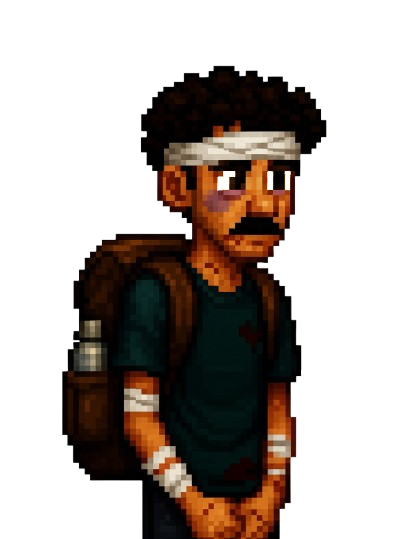
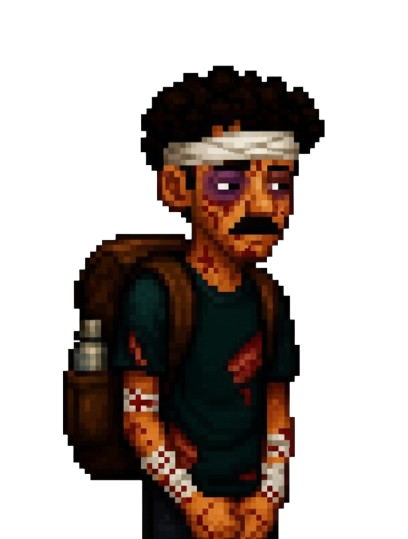
Méchanisme image terminé
Amélioration technique de la méthode pour mettre à jour les images des personnages selon leur nombre de dégâts subits. (N'est fait que sur Ahmed pour le moment).

Méthode pour mettre à jour les images terminée.

diff --git a/webapp_heros/src/stores/playerStore.js b/webapp_heros/src/stores/playerStore.js
@@ -45,7 +45,20 @@ export const usePlayerStore = defineStore('player', {
       HommeUltra: null,
       HommeEclipse: null,
       Haxan: null
-    }
+    },
+
+    images: [
+      { id: 1, name: "Homme", img: "/Images/Ahmed/PixelAhmed.png", lightWound: "/Images/Ahmed/PixelAhmedLightWound.png", Wounded: "/Images/Ahmed/PixelAhmedWounded.png", HeavyWound: "/Images/Ahmed/PixelAhmedHeavyWound.png" },
+      { id: 2, name: "Tacticien", img: "/Images/Mike/PixelMike.png", lightWound: "/Images/Mike/PixelMike.png" },
+      { id: 3, name: "CapQC", img: "/Images/CapitaineQuebec/PixelCap.png", lightWound: "/Images/CapitaineQuebec/PixelCap.png" },
+      { id: 4, name: "Magicien", img: "/Images/Alex/PixelAlex.png", lightWound: "/Images/Alex/PixelAlex.png" },
+      { id: 5, name: "Barbare", img: "/Images/Mathieu/PixelMathieu.png", lightWound: "/Images/Mathieu/PixelMathieu.png" },
+      { id: 6, name: "Cyborg", img: "/Images/Raf/PixelRaf.png", lightWound: "/Images/Raf/PixelRaf.png" },
+      { id: 7, name: "Loup", img: "/Images/Emeryk/PixelEmeryk.png", lightWound: "/Images/Emeryk/PixelEmeryk.png" },
+      { id: 8, name: "Modelisateur", img: "/Images/Elie/PixelElie.png", lightWound: "/Images/Elie/PixelElie.png" },
+      { id: 13, name: "Haxan", img: "/Images/Haxan/PixelHaxan.png", lightWound: "/Images/Haxan/PixelHaxan.png" },
+      // …
+    ]
   }),
 
   //getters c'est comme computed dans une app vue
@@ -85,6 +98,32 @@ export const usePlayerStore = defineStore('player', {
       this.damage.HommeUltra = 0
       this.damage.HommeEclipse = 0
       this.damage.Haxan = 0
+
+      // Logique pour updater les images affichées pour correspondre aux dégâts subits
+      for (const character of Object.keys(this.hp)) {
+        const hp = this.hp[character];
+        const imagePersonnage = this.images.find(c => c.name === character);
+
+        if (!imagePersonnage) continue;
+
+        if (hp > 50 && hp <= 70) {
+            // Change l'image actuelle du personnage pour sa version lightWound
+            imagePersonnage.img = imagePersonnage.lightWound;
+          
+        } else if (hp > 20 && hp <= 50) {
+
+            // Change l'image actuelle du personnage pour sa version Wounded
+            imagePersonnage.img = imagePersonnage.Wounded;
+          
+
+        } else if (hp <= 20) {
+
+            // Change l'image actuelle du personnage pour sa version Heavy Wound
+            imagePersonnage.img = imagePersonnage.HeavyWound;
+          
+
+        }
+      }
     },
     CheckActive() {
 
@@ -101,23 +140,7 @@ export const usePlayerStore = defineStore('player', {
       this.active.HommeUltra = this.active.HommeUltra
       this.active.HommeEclipse = this.active.HommeEclipse
       this.active.Haxan = this.active.Haxan
-    },
-
-    //Modifie dynamiquement les images des héros selon leurs points de vie actuels.
-    updateHealth() {
-        for (const [name, hp] of Object.entries(this.hp)) {
-    
-          if (hp < 30) {
-            console.log(`${name} is in critical danger!`);
-            // mettre l'image wounded mad
-          } 
-          else if (hp < 60) {
-            console.log(`${name} is getting weak.`);
-            // mettre l'image wounded
-          }
-    
-        }
-      
     }
+
   }
 })

diff --git a/webapp_heros/src/components/histoire/PersonnagesBloc.vue b/webapp_heros/src/components/histoire/PersonnagesBloc.vue
@@ -1,7 +1,7 @@
 <script setup>
-import { useCharactersStore } from '@/stores/imagesStore.js'
+import { usePlayerStore } from '@/stores/playerStore.js'
 
-const store = useCharactersStore()
+const store = usePlayerStore()
 </script>
 
 <template>
@@ -9,7 +9,7 @@ const store = useCharactersStore()
     <div class="wrapper">
       <div 
         class="personnages"
-        v-for="(personnage, index) in store.characters"
+        v-for="(personnage, index) in store.images"
         :key="index"
       >
         <img :src="personnage.img" :alt="personnage.name" />
@@ -36,6 +36,7 @@ const store = useCharactersStore()
 .personnages {
     background-color: red;
     height: 20vh;
+    width: 155px;
     border: solid 2px black;
     
 }

diff --git a/webapp_heros/src/views/ChapterView.vue b/webapp_heros/src/views/ChapterView.vue
@@ -51,6 +51,7 @@ export default {
     if (!choice.nextChapter) {
         //Vérifie si le fonctionnement de vie fonctionne
         applyDamage();
+        updateHealth()
         this.story.currentChapter = null
         this.story.narrative = "Fin de l'histoire."
         this.story.availableChoices = []
